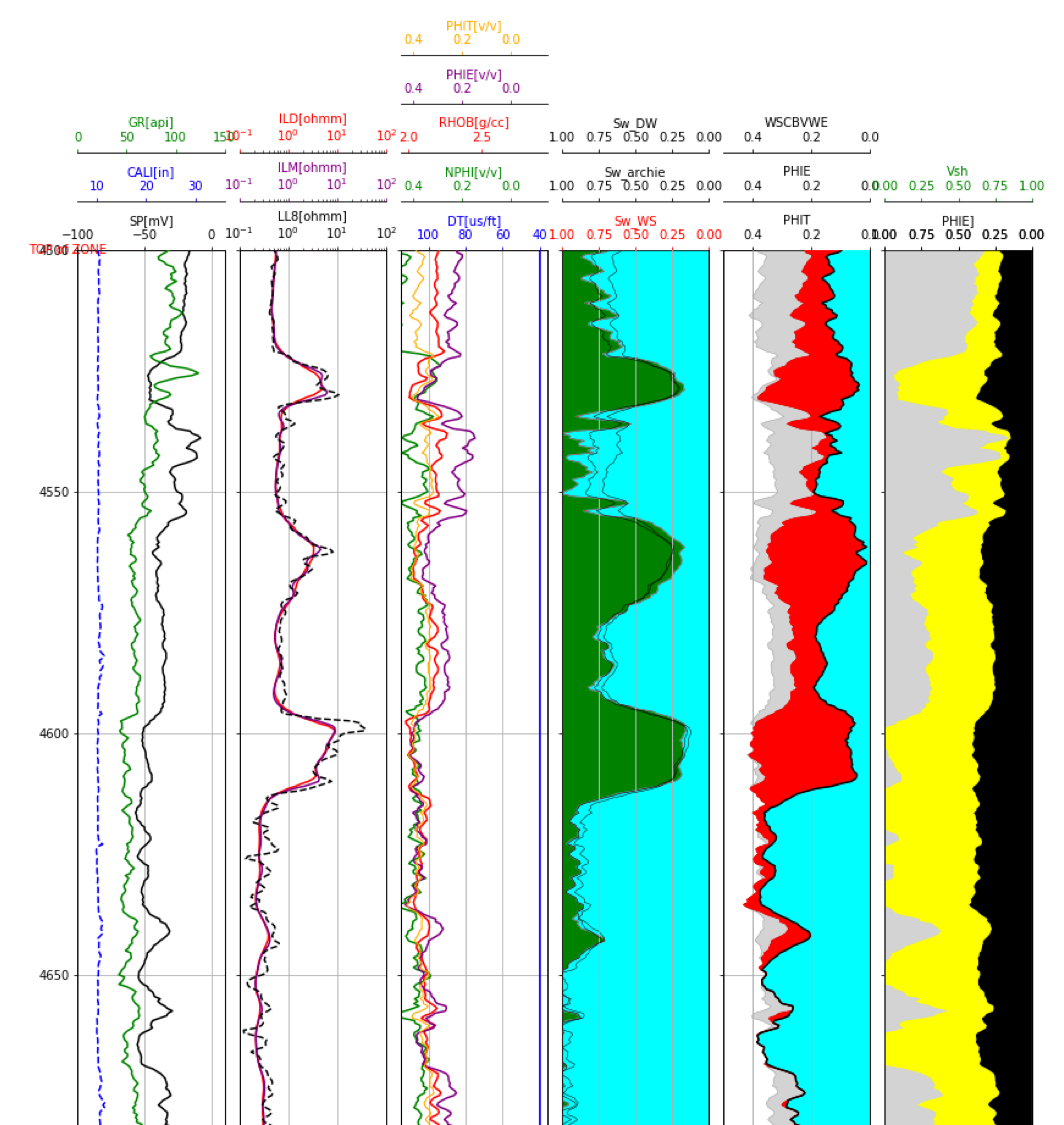
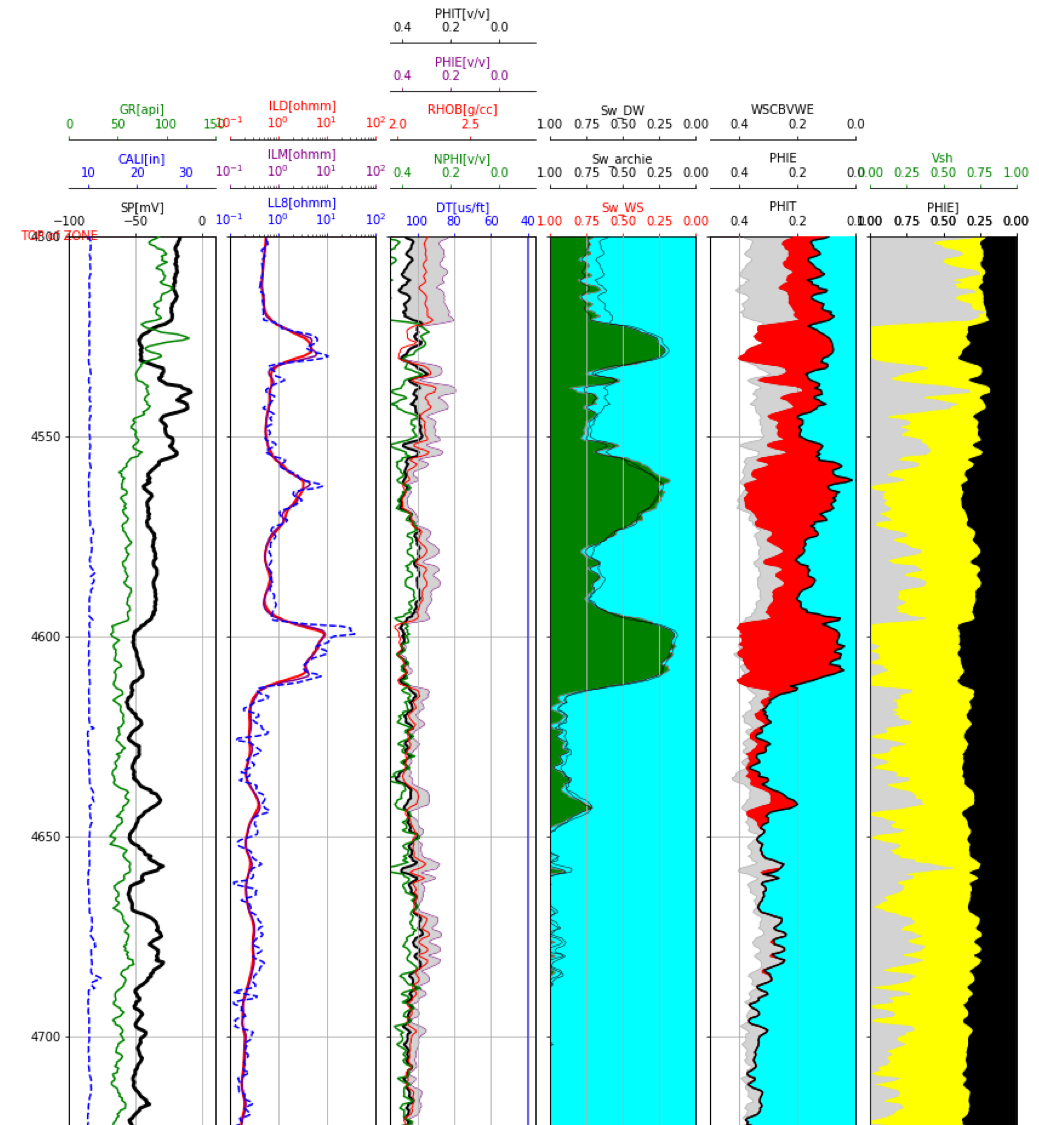
change out figures

Changed region(s): [[0.0308, 0.0, 0.9856, 1.0]]

diff --git a/Basic well log interpretation-test_vsh_GulfCoast.py b/Basic well log interpretation-test_vsh_GulfCoast.py
@@ -54,7 +54,7 @@ data['NPHI']=data['NPHI']
 """
 gr_clean, gr_shale = 45, 120                                      # Shale Parmaetrs for GR
 sp_clean, sp_shale = -50, 0                                       # Shale Parameters for SP
-neut_shale, den_shale, por_shale = 0.32, 2.65, 0.24               # Shale Parmaters for Neutron-Density
+neut_shale, den_shale, por_shale = 0.39, 2.48, 0.24               # Shale Parmaters for Neutron-Density
 neut_matrix, den_matrix = -0.02, 2.65                             # Matrix Parmameters for Neutron-Density
 neut_fl, den_fl = 1.0, 1.1                                        # Fluid Parameters for Neutron-Density
 dt_matrix, dt_fluid, dt_shale, cp, alpha = 55.5,188.0,90.0,1,5/8  # Sonic Parameters
@@ -88,10 +88,10 @@ mslope = 3.
 ===============================================================================
 """
 T = 150.       # Reservoir temperature in DegF
-TC=(T-32)/1.8  # Reservoir temperature in DegF
+TC=(T-32)/1.8  # Temp DegC
 RwT = T        # Temperature of Rw measument
 rwa=0.03       # water resistivity at RwT
-vsh_limit=0.1  # volume of shale upper limit for selction of data for graph
+vsh_limit=0.5  # volume of shale upper limit for selction of data for graph
 
 
 """
@@ -100,12 +100,15 @@ vsh_limit=0.1  # volume of shale upper limit for selction of data for graph
  ===============================================================================
 """
 Rw75=((RwT+6.77)*rwa)/(75+6.77)
+
 # Salinity in KPPM
 SAL=(10**((3.562-math.log10(Rw75-0.0123))/0.955))/1000
+
 B = math.exp(7.3-28.242/math.log(T)-0.2266*math.log(rwa)) 
+
 Bdacy=(1-0.83*math.exp(-math.exp(-2.38+(42.17/TC))/rwa))*(-3.16+1.59*math.log(TC))**2 #SCA Paper SCA2006-29
 
-print('Res temp =', T, 'Rw at Res Temp =',rwa, 'Rw@75 =', Rw75, 'B =',B, 'Bdacy =',Bdacy,'SAL =', SAL) 
+print('Res temp =', T, 'Rw at Res Temp =',rwa, 'Rw@75 =', Rw75, 'B =',B, 'Bdacy =',Bdacy,'SAL =', SAL)      
 
 
 
@@ -138,7 +141,7 @@ bottom_depth = 4800
 ===============================================================================
 """
 top_summary    = 4500
-bottom_summary = 4750
+bottom_summary = 4800
 
 
 """
@@ -197,7 +200,7 @@ def triple_combo_plot(top_depth,bottom_depth):
     ax01.set_xlim(-100,10)
     ax01.spines['top'].set_position(('outward',0))
     ax01.set_xlabel("SP [mV]")
-    ax01.plot(logs.SP, logs.DEPT, label='SP[mV]', color='black')
+    ax01.plot(logs.SP, logs.DEPT, label='SP[mV]', color='black',linewidth=3.0)
     ax01.set_xlabel('SP[mV]',color='black')    
     ax01.tick_params(axis='x', colors='black')
     ax01.grid(True)
@@ -224,7 +227,7 @@ def triple_combo_plot(top_depth,bottom_depth):
     ax11.grid(True)
     ax11.spines['top'].set_position(('outward',80))
     ax11.set_xlabel('ILD[ohmm]', color='red')
-    ax11.plot(logs.ILD, logs.DEPT, label='ILD[ohmm]', color='red')
+    ax11.plot(logs.ILD, logs.DEPT, label='ILD[ohmm]', color='red', linewidth=2.0)
     ax11.tick_params(axis='x', colors='red')    
     
     ax12=ax[1].twiny()
@@ -238,10 +241,10 @@ def triple_combo_plot(top_depth,bottom_depth):
     ax13=ax[1].twiny()
     ax13.set_xlim(0.1,100)
     ax13.set_xscale('log')
-    ax13.plot(logs.LL8, logs.DEPT, '--',label='LL8[ohmm]', color='black') 
+    ax13.plot(logs.LL8, logs.DEPT, '--',label='LL8[ohmm]', color='blue') 
     ax13.spines['top'].set_position(('outward',0))
-    ax13.set_xlabel('LL8[ohmm]',color='black')
-    ax13.tick_params(axis='x', colors='black')
+    ax13.set_xlabel('LL8[ohmm]',color='blue')
+    ax13.tick_params(axis='x', colors='blue')
 
     #3rd track: DT, RHOB, NPHI track
     ax21=ax[2].twiny()
@@ -453,8 +456,8 @@ ax1.plot(logs.GR, logs.DEPT, color='green')
 ax1.set_xlabel('GR [api]', color='green')
 
 ax11=ax1.twiny()
-ax11.plot(logs.SP, logs.DEPT, color='blue')
-ax11.set_xlabel("SP [mV]",color='blue')
+ax11.plot(logs.SP, logs.DEPT, color='black', linewidth = 3.0)
+ax11.set_xlabel("SP [mV]",color='black')
 
 
 #The graph of GR histogram
@@ -516,7 +519,7 @@ ax6.set_xlabel('Vsh [v.v]')
 # several methods (vsh = min (vshgr,vshsp,vshnd)) or Hodges-Lehman Median Filter
 # =============================================================================
 
-logs['vsh']=logs['vshsp']
+logs['vsh']=(logs['vshnd']).clip(0,1)
 
 
 
@@ -627,20 +630,20 @@ logs['PHIxND']=phixnd(logs.PHINshc,logs.PHIDshc).clip(0,1)
 ######logs['PHIE']=logs['PHIxND']
 
 #logs['PHIT']=logs['PHIxND']
-logs['PHIT']=(logs['PHID']+logs['NPHI'])/2
+logs['PHIT']=((logs['PHID']+logs['NPHI'])/2).clip(0,1)
 #logs['PHIT']=logs['Phixnd_chartbook']
 
 
 #logs['PHIE']=logs['PHIT'] - por_shale*logs['vsh']
-logs['CBW'] = por_shale*logs['vsh']
-logs['PHIE']=logs['PHIT'] - por_shale*logs['vsh']
+logs['CBW'] = (por_shale*logs['vsh']).clip(0,1)
+logs['PHIE']=(logs['PHIT'] - por_shale*logs['vsh']).clip(0,1)
 
 
 # Calculations for Swb used in Dual Water and WaxSmits
-logs['Swb'] = 1 - logs['PHIE']/logs['PHIT']
+logs['Swb'] =( 1 - logs['PHIE']/logs['PHIT']).clip(0,1)
 
 # Qv from Swb using Hill, Shirley and Klein
-logs['Qv'] = logs['Swb']/(0.6425/((den_fl*SAL)**0.5) +0.22)
+logs['Qv'] = (logs['Swb']/(0.6425/((den_fl*SAL)**0.5) +0.22)).clip(0,5)
 
 
 
@@ -653,6 +656,12 @@ logs['Qv'] = logs['Swb']/(0.6425/((den_fl*SAL)**0.5) +0.22)
 # logs['Mstarapp'] = math.log10(  rwa/logs['ILD']*(1+rwa*B*logs['Qv'])  )   /   10**(logs['PHIT'])
 # 
 # =============================================================================
+
+
+#logs['term1'] =(  rwa/logs['ILD']*(1+rwa*B*logs['Qv'])  )   
+#logs['term2'] = (logs['PHIT'])
+#logs['Mstarapp']=math.log(10,logs['term1'])/math.log(10,logs['term2'])
+
 logs['Mstarapp'] = m_cem + mslope*logs['Swb']
 
 
@@ -686,12 +695,12 @@ logs['Mstarapp'] = m_cem + mslope*logs['Swb']
 import matplotlib.ticker as ticker
 
 pickett_figure=plt.figure(figsize=(7,6))
-plt.title('Pickett Plot'+ ' for Vsh < '+str(int(vsh_limit*100))+'%')
+plt.title('Pickett Plot'+ ' for Vsh < '+str(int(vsh_limit*100))+'%', color = 'blue')
 plt.loglog(logs.ILD[logs.vsh<vsh_limit],logs.PHIT[logs.vsh<vsh_limit],'ro', label='',color='red')
 plt.xlim(0.01,1000)
 plt.ylim(0.01,1)
-plt.ylabel('PHIT [v/v]')
-plt.xlabel('ILD [ohmm]')
+plt.ylabel('PHIT [v/v]', color = 'blue')
+plt.xlabel('ILD [ohmm]', color = 'blue')
 plt.gca().xaxis.set_major_formatter(ticker.FormatStrFormatter("%.2f"))
 plt.gca().yaxis.set_major_formatter(ticker.FormatStrFormatter("%.2f"))
 
@@ -714,21 +723,21 @@ plt.grid(True, which='both',ls='-',color='gray')
 
 
 cbw_figure=plt.figure(figsize=(3,3))
-plt.title('Vsh vs.CBW')
+plt.title('Vsh vs.CBW', color = 'blue')
 plt.plot(logs.vsh,logs.CBW,'ro', label='',color='red')
 plt.xlim(0.0,1)
 plt.ylim(0.0,1)
-plt.ylabel('CBW [v/v]')
-plt.xlabel('Vsh [v/v]')
+plt.ylabel('CBW [v/v]', color = 'blue')
+plt.xlabel('Vsh [v/v]', color = 'blue')
 plt.grid(True, which='both',ls='-',color='gray')
 
 mapp_figure=plt.figure(figsize=(3,3))
-plt.title('Swb vs.Mstar_Apparent')
+plt.title('Swb vs.Mstar_Apparent', color = 'blue')
 plt.plot(logs.Swb,logs.Mstarapp,'ro', label='',color='red')
 plt.xlim(0.0,1)
-plt.ylim(1.0,4)
-plt.ylabel('Mstar Apparent')
-plt.xlabel('Swb [v/v]')
+plt.ylim(1.0,5)
+plt.ylabel('Mstar Apparent', color = 'blue')
+plt.xlabel('Swb [v/v]', color = 'blue')
 plt.grid(True, which='both',ls='-',color='gray')
 
 
@@ -780,7 +789,7 @@ def sw_dw(Rw, T, RwT, Rt, PHIT, PHIE, Swb):
         Ct   = 1/Rt
         #--------------------------------------------------
         #Swb = 1.0 - (PHIE/PHIT)
-        #Swia=BVI/PHIE, but no NMR BVI. To Improvise Swia = Swb
+        #Swia=BVI/PHIE, but no NMR BVI here
         Swia = Swb #estimate
         #--------------------------------------------------
         CBW = Swb * PHIT
@@ -791,12 +800,10 @@ def sw_dw(Rw, T, RwT, Rt, PHIT, PHIE, Swb):
         #----- W @ Sw = 1 -----------------------------------
         #WW=math.log10(Ct/DCWW)/(math.log10(PHIT))
         #----- W @ Sw AT BVI --------------------------------
-        #WI=LOG10(CT/DCWI)/(LOG10(BVIT))
+        #        WI=LOG10(CT/DCWI)/(LOG10(BVIT))
         #----- THE ACTUAL W ---------------------------------
-        #
         #Wq = 0.4*Swia + 1.65
-        # Increase Wq by starting with 1.90 vs. Coates 1.65
-        Wq = 0.4*Swia + 1.90
+        Wq = 0.4*Swia + 1.9
         #----- WW AND WI CONSTRAN W ------------------------
         #----- COMPUTE CBVW TOTAL -----------------------
         #AA=CW
@@ -829,7 +836,7 @@ def waxmansmits(Rw, T, RwT, Rt, PHIT, PHIE, den_fl, m_cem, mslope, Swb, Rw75, Qv
          - m_cem - best determined from SCAL      
         *Returns:
          - Sw_Total_WS - total water saturation from Waxman-Smits
-         - Sw_WS =(  ((1/PHIT**mstar)*Rw)/Rt*(1+Rw*B*QV)/Sw )**(1/n_sat)
+         - Sw_WS =(  ((1/PHIT**mstar)*Rw)/Rt*(1+Rw*B*QV)/Sw )**(1/nstar)
         '''
         
         #convert m_cem to mstar with increase in mstar with increase in Swb
@@ -845,16 +852,16 @@ Rw =rwa
 
 logs['Sw_archie']=(sw_archie(Rw,logs.ILD,logs.PHIT,1,m_cem,n_sat)).clip(0,1)
 #Calculate the BVW (bulk volume of water) for Archie:
-logs['BVW']=logs['Sw_archie']*logs['PHIT']
+logs['BVW']=(logs['Sw_archie']*logs['PHIT']).clip(0,1)
 
 logs['Sw_dw'] =(sw_dw(Rw, T, RwT, logs.ILD, logs.PHIT, logs.PHIE, logs.Swb)).clip(0,1)
 #Calculate the BVW Effective for DW:
-logs['CBVWE']=logs['Sw_dw']*logs['PHIT'] - logs['CBW']
+logs['CBVWE']=(logs['Sw_dw']*logs['PHIT'] - logs['CBW']).clip(0,1)
 
-logs['Sw_ws'] =(waxmansmits(Rw,T,RwT,logs.ILD,logs.PHIT,logs.PHIE,den_fl,m_cem,mslope,logs.Swb,Rw75,logs.Qv,Bdacy)).clip(0,1)
-logs['WSCBVWE']=logs['Sw_ws']*logs['PHIT'] - logs['CBW']
+logs['Sw_ws'] =(waxmansmits(Rw, T, RwT, logs.ILD, logs.PHIT, logs.PHIE, den_fl, m_cem, mslope, logs.Swb, Rw75, logs.Qv, Bdacy)).clip(0,1)
+logs['WSCBVWE']=(logs['Sw_ws']*logs['PHIT'] - logs['CBW']).clip(0,1)
 
-logs['matrix']=1-logs.vsh*por_shale-logs.PHIE
+logs['matrix']=(1-logs.vsh*por_shale-logs.PHIE).clip(0,1)
 
 
 
@@ -908,7 +915,7 @@ for (i,j) in zip(tops_depths,tops):
 """
 ax01=ax[0].twiny()
 ax01.set_xlim(-100,10)
-ax01.plot(logs.SP, logs.DEPT, label='SP[mV]', color='black')
+ax01.plot(logs.SP, logs.DEPT, label='SP[mV]', color='black',linewidth=3.0)
 ax01.set_xlabel('SP[mV]',color='black')    
 ax01.tick_params(axis='x', colors='black')
     
@@ -937,7 +944,7 @@ ax11.set_xscale('log')
 ax11.grid(True)
 ax11.spines['top'].set_position(('outward',80))
 ax11.set_xlabel('ILD[ohmm]', color='red')
-ax11.plot(logs.ILD, logs.DEPT, label='ILD[ohmm]', color='red')
+ax11.plot(logs.ILD, logs.DEPT, label='ILD[ohmm]', color='red', linewidth = 2.0)
 ax11.tick_params(axis='x', colors='red')    
 
 ax12=ax[1].twiny()
@@ -951,54 +958,61 @@ ax12.tick_params(axis='x', colors='purple')
 ax13=ax[1].twiny()
 ax13.set_xlim(0.1,100)
 ax13.set_xscale('log')
-ax13.plot(logs.LL8, logs.DEPT, '--',label='LL8[ohmm]', color='black') 
+ax13.plot(logs.LL8, logs.DEPT, '--',label='LL8[ohmm]', color='blue') 
 ax13.spines['top'].set_position(('outward',0))
-ax13.set_xlabel('LL8[ohmm]',color='black')
-ax13.tick_params(axis='x', colors='black')
+ax13.set_xlabel('LL8[ohmm]',color='blue')
+ax13.tick_params(axis='x', colors='blue')
 
 
 """
 #3rd track: DT, RHOB, NPHI track
 """
+
 ax21=ax[2].twiny()
-ax21.grid(True)
-ax21.set_xlim(115,36)
-ax21.spines['top'].set_position(('outward',0))
-ax21.set_xlabel('DT[us/ft]')
-ax21.plot(logs.DT, logs.DEPT, label='DT[us/ft]', color='blue')
-ax21.set_xlabel('DT[us/ft]', color='blue')    
-ax21.tick_params(axis='x', colors='blue')
-    
+ax21.set_xlim(-0.15,0.45)
+ax21.invert_xaxis()
+ax21.plot(logs.PHIE, logs.DEPT, label='PHIE[v/v]', color='purple',linewidth=2.0) 
+ax21.spines['top'].set_position(('outward',120))
+ax21.set_xlabel('PHIE[v/v]', color='purple')    
+ax21.tick_params(axis='x', colors='purple') 
+#ax21.legend(loc='lower left')
+
 ax22=ax[2].twiny()
 ax22.set_xlim(-0.15,0.45)
 ax22.invert_xaxis()
-ax22.plot(logs.NPHI, logs.DEPT, label='NPHI[v/v]', color='green') 
-ax22.spines['top'].set_position(('outward',40))
-ax22.set_xlabel('NPHI[v/v]', color='green')    
-ax22.tick_params(axis='x', colors='green')
-    
-ax23=ax[2].twiny()
-ax23.set_xlim(1.95,2.95)
-ax23.plot(logs.RHOB, logs.DEPT ,label='RHOB[g/cc]', color='red') 
-ax23.spines['top'].set_position(('outward',80))
-ax23.set_xlabel('RHOB[g/cc]',color='red')
-ax23.tick_params(axis='x', colors='red')
+ax22.plot(logs.PHIT, logs.DEPT, label='PHIT[v/v]', color='black',linewidth=2.0) 
+ax22.spines['top'].set_position(('outward',160))
+ax22.set_xlabel('PHIT[v/v]', color='black')    
+ax22.tick_params(axis='x', colors='black') 
+ax22.fill_betweenx(logs.DEPT,logs.PHIE,logs.PHIT,color='lightgray',label='Shale')
+ax22.legend(loc='lower left')
 
+ax23=ax[2].twiny()
+ax23.grid(True)
+ax23.set_xlim(115,36)
+ax23.spines['top'].set_position(('outward',0))
+ax23.set_xlabel('DT[us/ft]')
+ax23.plot(logs.DT, logs.DEPT, label='DT[us/ft]', color='blue',linewidth=1.0)
+ax23.set_xlabel('DT[us/ft]', color='blue')    
+ax23.tick_params(axis='x', colors='blue')
+#ax23.legend(loc='lower left')
+    
 ax24=ax[2].twiny()
 ax24.set_xlim(-0.15,0.45)
 ax24.invert_xaxis()
-ax24.plot(logs.PHIE, logs.DEPT, label='PHIE[v/v]', color='purple') 
-ax24.spines['top'].set_position(('outward',120))
-ax24.set_xlabel('PHIE[v/v]', color='purple')    
-ax24.tick_params(axis='x', colors='purple') 
-
+ax24.plot(logs.NPHI, logs.DEPT, label='NPHI[v/v]', color='green') 
+ax24.spines['top'].set_position(('outward',40))
+ax24.set_xlabel('NPHI[v/v]', color='green')    
+ax24.tick_params(axis='x', colors='green')
+#ax24.legend(loc='lower left')
+    
 ax25=ax[2].twiny()
-ax25.set_xlim(-0.15,0.45)
-ax25.invert_xaxis()
-ax25.plot(logs.PHIT, logs.DEPT, label='PHIT[v/v]', color='orange',linewidth=1.0) 
-ax25.spines['top'].set_position(('outward',160))
-ax25.set_xlabel('PHIT[v/v]', color='orange')    
-ax25.tick_params(axis='x', colors='orange') 
+ax25.set_xlim(1.95,2.95)
+ax25.plot(logs.RHOB, logs.DEPT ,label='RHOB[g/cc]', color='red',linewidth=1.0) 
+ax25.spines['top'].set_position(('outward',80))
+ax25.set_xlabel('RHOB[g/cc]',color='red')
+ax25.tick_params(axis='x', colors='red')
+#ax25.legend(loc='lower left')
 
 
 """
@@ -1033,6 +1047,7 @@ ax33.plot(logs.Sw_dw, logs.DEPT, label='Sw_dw', color='black',linewidth=0.5)
 ax33.spines['top'].set_position(('outward',80))
 ax33.set_xlabel('Sw_DW', color='black')    
 ax33.tick_params(axis='x', colors='black')
+
 
  
 """
@@ -1104,10 +1119,10 @@ ax52.legend(loc='lower left')
 ==============================================================================
 """
 
-logs.loc[top_summary:bottom_summary,{'PHIE','Sw_archie','BVW','vsh'}].hist(figsize=(8, 6),alpha=0.5,bins=30,color='red')
+logs.loc[top_summary:bottom_summary,{'PHIE','Sw_ws','WSCBVWE','vsh'}].hist(figsize=(8, 6),alpha=0.5,bins=30,color='red')
 print ('MAIN ZONE of INTEREST:', top_summary, 'to', bottom_summary, 'feet')
 print ('Mean values:')
-logs.loc[top_summary:bottom_summary,{'PHIE','Sw_archie','BVW','vsh'}].mean()
+logs.loc[top_summary:bottom_summary,{'PHIE','Sw_ws','WSCBVWE','vsh'}].mean()
 
 
 
@@ -1116,7 +1131,7 @@ logs.loc[top_summary:bottom_summary,{'PHIE','Sw_archie','BVW','vsh'}].mean()
 
 
 
-curves_to_export={'PHIE','Sw_archie','BVW','vsh'}
+curves_to_export={'PHIE','Sw_ws','BVW','vsh'}
 for x in curves_to_export:
     data[x] =logs[x]
 
